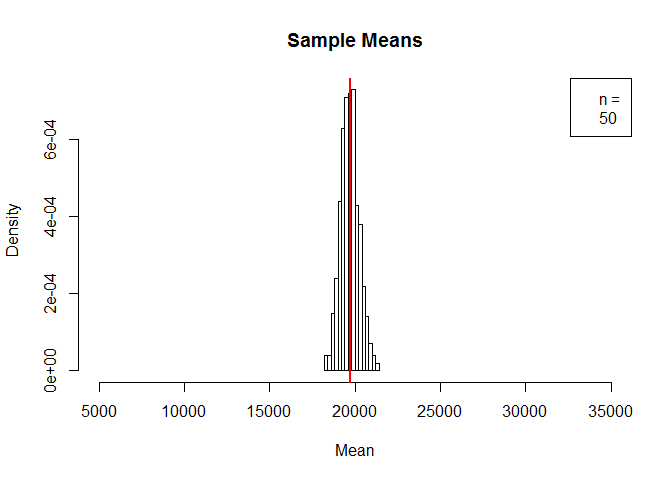
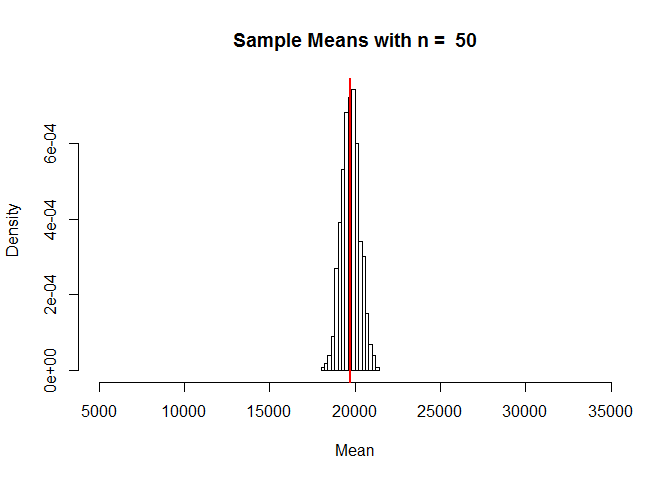
Corrected histograms

diff --git a/Module04-2.html b/Module04-2.html
@@ -146,9 +146,9 @@ abline(v = mean(collegecost$yearly), col = &quot;red&quot;, lwd = 3)</code></pre
 <pre class="r"><code>x &lt;- sample(collegecost$yearly, 5)
 #look at the numbers in this sample and calculate the mean
 x #data for this sample</code></pre>
-<pre><code>## [1] 23905 19380 15058 18042 22332</code></pre>
+<pre><code>## [1] 16782 19755 26970 29520 18028</code></pre>
 <pre class="r"><code>mean(x) #this sample mean</code></pre>
-<pre><code>## [1] 19743.4</code></pre>
+<pre><code>## [1] 22211</code></pre>
 <p>Run the code below 3 more times and make note of the mean of each sample</p>
 <pre class="r"><code>x &lt;- sample(collegecost$yearly, 5)
 x
@@ -157,10 +157,10 @@ mean(x)</code></pre>
 <p>Let’s repeat this for a larger sample size. Make note of the mean of each sample.</p>
 <pre class="r"><code>x &lt;- sample(collegecost$yearly, 20)
 x #data for this sample</code></pre>
-<pre><code>##  [1] 25799 19048 15242 22483 22936 19511 13713 19611 32715 25931 17749
-## [12] 16227 21966 19917 16877 17839 22796 24997 24835  7715</code></pre>
+<pre><code>##  [1] 16107 13204 21222 23130 18479 23675 20511 19202 18581 25416 19829
+## [12] 22387 19299 16126 23995 21420 20404 16427 22041 19178</code></pre>
 <pre class="r"><code>mean(x) #this sample mean</code></pre>
-<pre><code>## [1] 20395.35</code></pre>
+<pre><code>## [1] 20031.65</code></pre>
 <p>Run the code below 3 more times and make note of the mean of each sample</p>
 <pre class="r"><code>x &lt;- sample(collegecost$yearly, 20)
 x
@@ -169,13 +169,13 @@ mean(x)</code></pre>
 <p>Repeat once more for an even larger sample size. Again, make a note of the mean of each sample.</p>
 <pre class="r"><code>x &lt;- sample(collegecost$yearly, 50)
 x #data for this sample</code></pre>
-<pre><code>##  [1] 16427 25086 24696 13204 15112 12946 19462 19843 21432 15611 23707
-## [12] 19415 21160 22267 20449 18724 21004 21601 15272 16345 28011 18227
-## [23] 29787 15066 17767 19851 17350 15021  7715 13308 18406 21222 22420
-## [34] 19192 22909 20252 19058 31474 20372 17959 30858 17553 15753 15935
-## [45] 15218 13531 25513 16878 15002 15531</code></pre>
+<pre><code>##  [1] 19873 19048 17896 20916 21402 13756 20538 16020 25291 16071 19917
+## [12] 21922 24375 16877 24746 21748 18028 17749 20372 23763 20630 20799
+## [23] 23740 13735 19366 23263 13713 28943 13296 18033 21160 31803 21512
+## [34] 17805 20840 21732 14925 19058 21971 21203 21990 16556 13026 19212
+## [45] 19843 19145 27247 22974 17377 21401</code></pre>
 <pre class="r"><code>mean(x) #this sample mean</code></pre>
-<pre><code>## [1] 19218.04</code></pre>
+<pre><code>## [1] 20132.12</code></pre>
 <p>Run the code below 3 more times and make note of the mean of each sample</p>
 <pre class="r"><code>x &lt;- sample(collegecost$yearly, 50)
 x
@@ -187,18 +187,17 @@ xbar = rep(0,500)
 for(i in 1:500) {xbar[i] = mean(sample(collegecost$yearly, n))}</code></pre>
 <p>Calculate the mean of the 500 sample means and compare it to the population mean, then create a histogram of the 500 sample means with a line at the population mean.</p>
 <pre class="r"><code>mean(xbar) #the mean of the sample means</code></pre>
-<pre><code>## [1] 19767.86</code></pre>
+<pre><code>## [1] 19824.16</code></pre>
 <pre class="r"><code>mean(collegecost$yearly) #the population mean</code></pre>
 <pre><code>## [1] 19719.76</code></pre>
 <pre class="r"><code>hist(xbar, 
      prob = TRUE, 
      breaks = 12, 
      xlim = c(5000, 35000),
-     main = &quot;Sample Means&quot;,
+     main = paste(&quot;Sample Means with n = &quot;, n),
      xlab = &quot;Mean&quot;)
-legend(&quot;topright&quot;,c(&quot;n = &quot;,n))
 abline(v = mean(collegecost$yearly), col = &quot;red&quot;, lwd = 2)</code></pre>
[2 lines of base64/hex data omitted]
 <p>Compare the sample means histogram to the data histogram. What do they have in common? How are they different?</p>
 <p><strong>Let’s change the sample size to n = 20 and repeat.</strong></p>
 <pre class="r"><code>n&lt;-20
@@ -206,36 +205,34 @@ xbar = rep(0,500)
 for(i in 1:500) {xbar[i] = mean(sample(collegecost$yearly, n))}
 
 mean(xbar) #the mean of the sample means</code></pre>
-<pre><code>## [1] 19832.4</code></pre>
+<pre><code>## [1] 19635.93</code></pre>
 <pre class="r"><code>mean(collegecost$yearly) #the population mean</code></pre>
 <pre><code>## [1] 19719.76</code></pre>
 <pre class="r"><code>hist(xbar, 
      prob = TRUE, 
      breaks = 12, 
      xlim = c(5000, 35000),
-     main = &quot;Sample Means&quot;,
+     main = paste(&quot;Sample Means with n = &quot;, n),
      xlab = &quot;Mean&quot;)
-legend(&quot;topright&quot;,c(&quot;n = &quot;,n))
 abline(v = mean(collegecost$yearly), col = &quot;red&quot;, lwd = 2)</code></pre>
[2 lines of base64/hex data omitted]
 <p><strong>Finally, let’s change the sample size to n = 50 and repeat one last time.</strong></p>
 <pre class="r"><code>n &lt;- 50
 xbar = rep(0,500)
 for(i in 1:500) {xbar[i] = mean(sample(collegecost$yearly, n))}
 
 mean(xbar) #the mean of the sample means</code></pre>
-<pre><code>## [1] 19689.06</code></pre>
+<pre><code>## [1] 19732.97</code></pre>
 <pre class="r"><code>mean(collegecost$yearly) #the population mean</code></pre>
 <pre><code>## [1] 19719.76</code></pre>
 <pre class="r"><code>hist(xbar, 
      prob = TRUE, 
      breaks = 12, 
      xlim = c(5000, 35000),
-     main = &quot;Sample Means&quot;,
+     main = paste(&quot;Sample Means with n = &quot;, n),
      xlab = &quot;Mean&quot;)
-legend(&quot;topright&quot;,c(&quot;n = &quot;,n))
 abline(v = mean(collegecost$yearly), col = &quot;red&quot;, lwd = 2)</code></pre>
[2 lines of base64/hex data omitted]
 </div>
 </div>
 

diff --git a/Module04-2.md b/Module04-2.md
@@ -48,7 +48,7 @@ x #data for this sample
 ```
 
 ```
-## [1] 23905 19380 15058 18042 22332
+## [1] 16782 19755 26970 29520 18028
 ```
 
 ```r
@@ -56,7 +56,7 @@ mean(x) #this sample mean
 ```
 
 ```
-## [1] 19743.4
+## [1] 22211
 ```
 
 Run the code below 3 more times and make note of the mean of each sample
@@ -79,8 +79,8 @@ x #data for this sample
 ```
 
 ```
-##  [1] 25799 19048 15242 22483 22936 19511 13713 19611 32715 25931 17749
-## [12] 16227 21966 19917 16877 17839 22796 24997 24835  7715
+##  [1] 16107 13204 21222 23130 18479 23675 20511 19202 18581 25416 19829
+## [12] 22387 19299 16126 23995 21420 20404 16427 22041 19178
 ```
 
 ```r
@@ -88,7 +88,7 @@ mean(x) #this sample mean
 ```
 
 ```
-## [1] 20395.35
+## [1] 20031.65
 ```
 
 Run the code below 3 more times and make note of the mean of each sample
@@ -111,11 +111,11 @@ x #data for this sample
 ```
 
 ```
-##  [1] 16427 25086 24696 13204 15112 12946 19462 19843 21432 15611 23707
-## [12] 19415 21160 22267 20449 18724 21004 21601 15272 16345 28011 18227
-## [23] 29787 15066 17767 19851 17350 15021  7715 13308 18406 21222 22420
-## [34] 19192 22909 20252 19058 31474 20372 17959 30858 17553 15753 15935
-## [45] 15218 13531 25513 16878 15002 15531
+##  [1] 19873 19048 17896 20916 21402 13756 20538 16020 25291 16071 19917
+## [12] 21922 24375 16877 24746 21748 18028 17749 20372 23763 20630 20799
+## [23] 23740 13735 19366 23263 13713 28943 13296 18033 21160 31803 21512
+## [34] 17805 20840 21732 14925 19058 21971 21203 21990 16556 13026 19212
+## [45] 19843 19145 27247 22974 17377 21401
 ```
 
 ```r
@@ -123,7 +123,7 @@ mean(x) #this sample mean
 ```
 
 ```
-## [1] 19218.04
+## [1] 20132.12
 ```
 
 Run the code below 3 more times and make note of the mean of each sample
@@ -152,7 +152,7 @@ mean(xbar) #the mean of the sample means
 ```
 
 ```
-## [1] 19767.86
+## [1] 19824.16
 ```
 
 ```r
@@ -168,9 +168,8 @@ hist(xbar,
      prob = TRUE, 
      breaks = 12, 
      xlim = c(5000, 35000),
-     main = "Sample Means",
+     main = paste("Sample Means with n = ", n),
      xlab = "Mean")
-legend("topright",c("n = ",n))
 abline(v = mean(collegecost$yearly), col = "red", lwd = 2)
 ```
 
@@ -189,7 +188,7 @@ mean(xbar) #the mean of the sample means
 ```
 
 ```
-## [1] 19832.4
+## [1] 19635.93
 ```
 
 ```r
@@ -205,9 +204,8 @@ hist(xbar,
      prob = TRUE, 
      breaks = 12, 
      xlim = c(5000, 35000),
-     main = "Sample Means",
+     main = paste("Sample Means with n = ", n),
      xlab = "Mean")
-legend("topright",c("n = ",n))
 abline(v = mean(collegecost$yearly), col = "red", lwd = 2)
 ```
 
@@ -224,7 +222,7 @@ mean(xbar) #the mean of the sample means
 ```
 
 ```
-## [1] 19689.06
+## [1] 19732.97
 ```
 
 ```r
@@ -240,9 +238,8 @@ hist(xbar,
      prob = TRUE, 
      breaks = 12, 
      xlim = c(5000, 35000),
-     main = "Sample Means",
+     main = paste("Sample Means with n = ", n),
      xlab = "Mean")
-legend("topright",c("n = ",n))
 abline(v = mean(collegecost$yearly), col = "red", lwd = 2)
 ```
 
